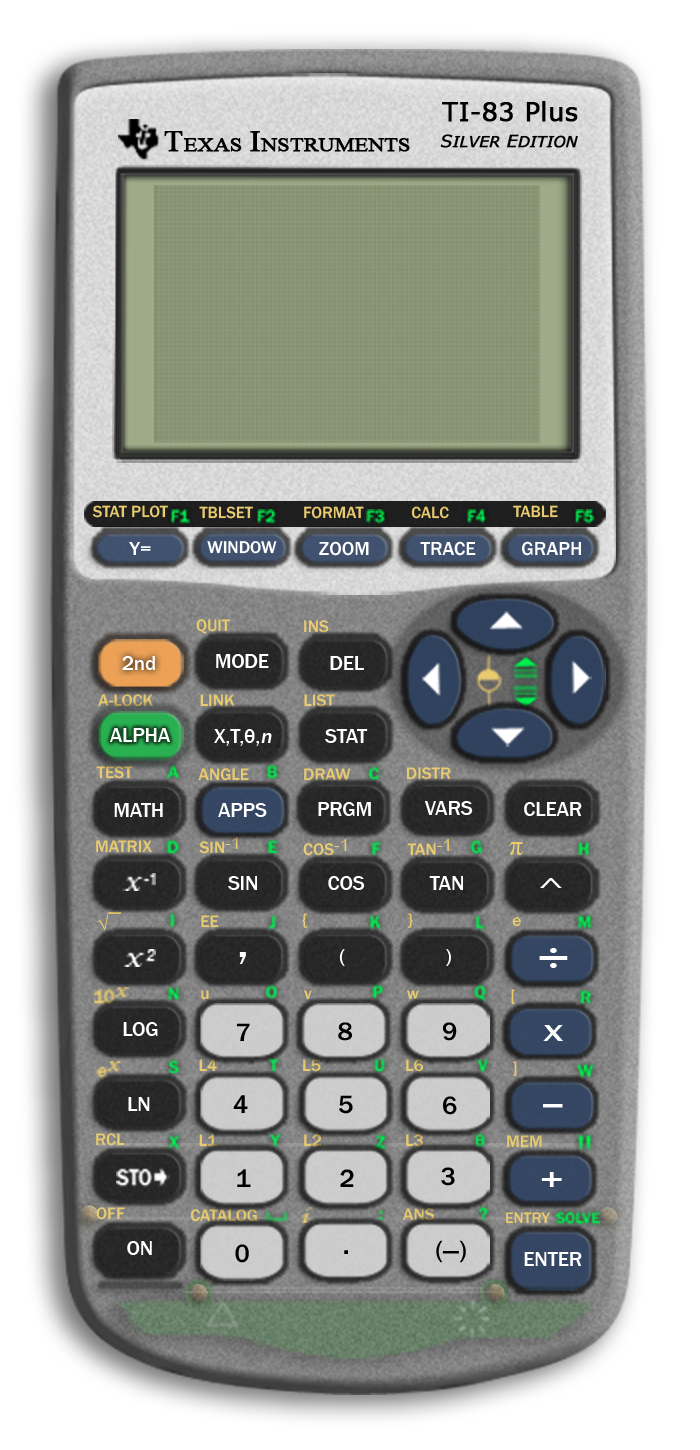
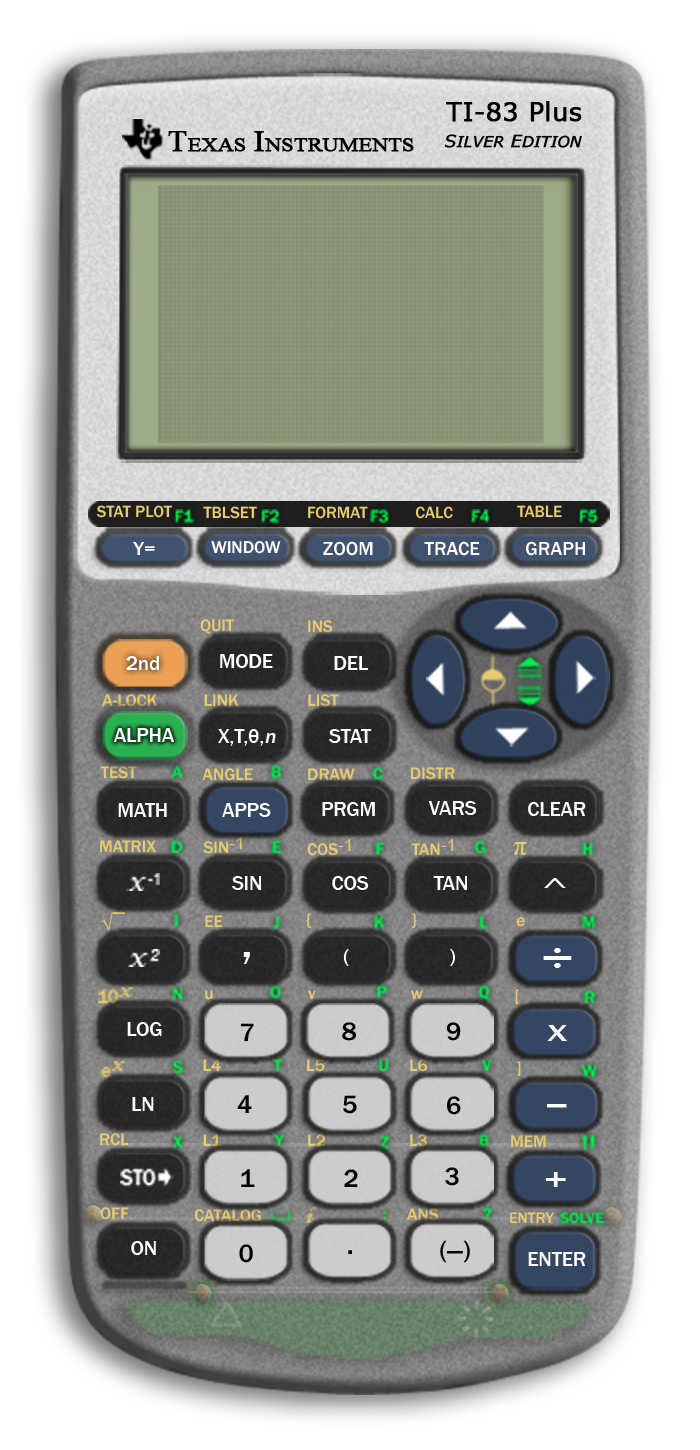
Added a hack to detect loading CSE rom to lower model and vice versa Fix 83PSE skin so it matches up with the keymap Fixed a couple crashes in debugger breakpoint tab Maybe fixed a race condition sending files Make default OS selection in the wizard the latest version Update version to 1.9

diff --git a/debugger/dbbreakpoints.c b/debugger/dbbreakpoints.c
@@ -201,19 +201,31 @@ LRESULT CALLBACK BreakpointsDialogProc(HWND hwnd, UINT Message, WPARAM wParam, L
 						break;
 					}
 
+					memc *memc = lpCalc->cpu.mem_c;
 					if (Button_GetCheck(GetDlgItem(hwnd, IDC_BREAK_NORMAL))) {
-						set_break(lpCalc->cpu.mem_c, waddr);
+						if (check_break(memc, waddr)) {
+							break;
+						}
+
+						set_break(memc, waddr);
 					} else if (Button_GetCheck(GetDlgItem(hwnd, IDC_BREAK_WRITE))) {
+						if (check_mem_write_break(memc, waddr)) {
+							break;
+						}
+
 						set_mem_write_break(lpCalc->cpu.mem_c, waddr);
 					} else if (Button_GetCheck(GetDlgItem(hwnd, IDC_BREAK_READ))) {
+						if (check_mem_read_break(memc, waddr)) {
+							break;
+						}
+
 						set_mem_read_break(lpCalc->cpu.mem_c, waddr);
+					} else {
+						break;
 					}
 
 					LPBREAKPOINT lpBreak = lpCalc->cond_breakpoints[waddr.is_ram][PAGE_SIZE * waddr.page + mc_base(waddr.addr)];
-					int index = ListView_GetItemCount(hwndListView) - 1;
-					if (index == -1) {
-						index = 0;
-					}
+					int index = ListView_GetItemCount(hwndListView);
 
 					LVITEM item;
 					item.mask = LVIF_PARAM;

diff --git a/utilities/linksendvar.c b/utilities/linksendvar.c
@@ -401,6 +401,8 @@ BOOL check_flashpage_empty(u_char(*dest)[PAGE_SIZE], u_int page, u_int num_pages
 #define TI_83P_APP_BITMAP_VALID_OFFSET 0x1FE0
 #define TI_84PCSE_APP_BITMAP_VALID_OFFSET 0x1FC8
 #define CERT_PAGE cpu->mem_c->flash_pages - 2
+#define LAST_OS_PAGE_83P 0x1D
+#define LAST_OS_PAGE_84PCSE 0xFC
 
 /* Fixes the certificate page so that the app is no longer marked as a trial
 * cpu: cpu for the core the application is on
@@ -446,6 +448,19 @@ LINK_ERR forceload_os(CPU_t *cpu, TIFILE_t *tifile) {
 
 	if (tifile->flash == NULL) {
 		return LERR_FILE;
+	}
+
+	int lastPage = 0xFF;
+	while (tifile->flash->data[lastPage] == NULL) {
+		lastPage--;
+	}
+
+	// This is hacky. Takes advantage of the fact that CSE stores the real number of the page, where 84PSE and below store page & 0x1F
+	// TODO: find the OS validation header
+	if (lastPage == LAST_OS_PAGE_83P && cpu->pio.model > TI_84PSE) {
+		return LERR_MODEL;
+	} else if (lastPage == LAST_OS_PAGE_84PCSE && cpu->pio.model < TI_84PCSE) {
+		return LERR_MODEL;
 	}
 
 	int start_page;

diff --git a/gui/guiwizard.c b/gui/guiwizard.c
@@ -410,23 +410,26 @@ INT_PTR CALLBACK SetupOSProc(HWND hwnd, UINT Message, WPARAM wParam, LPARAM lPar
 							switch(model) {
 								case TI_73:
 									ComboBox_AddString(hComboOS, _T("OS 1.91"));
+									ComboBox_SetCurSel(hComboOS, 0);
 									break;
 								case TI_83P:
 								case TI_83PSE:
 									ComboBox_AddString(hComboOS, _T("OS 1.19"));
+									ComboBox_SetCurSel(hComboOS, 0);
 									break;
 								case TI_84P:
 								case TI_84PSE: {
 									ComboBox_AddString(hComboOS, _T("OS 2.43"));
 									ComboBox_AddString(hComboOS, _T("OS 2.55 MP"));
+									ComboBox_SetCurSel(hComboOS, 1);
 									break;
 								case TI_84PCSE:
 									ComboBox_AddString(hComboOS, _T("OS 4.0"));
 									ComboBox_AddString(hComboOS, _T("OS 4.2"));
+									ComboBox_SetCurSel(hComboOS, 1);
 									break;
 								}
 							}
-							ComboBox_SetCurSel(hComboOS, 0);
 							break;
 						}
 						case IDC_BROWSE_OS: {

diff --git a/utilities/sendfileswindows.cpp b/utilities/sendfileswindows.cpp
@@ -189,7 +189,8 @@ BOOL SendFileToCalc(HWND hwndParent, const LPCALC lpCalc, LPCTSTR lpszFileName, 
 		}
 
 		LPSENDINFO lpsi;
-		if (g_SendInfo.find(lpCalc) == g_SendInfo.end() || g_SendInfo[lpCalc] == NULL)
+		const std::map<LPCALC, LPSENDINFO>::iterator iterator = g_SendInfo.find(lpCalc);
+		if (iterator == g_SendInfo.end() || g_SendInfo[lpCalc] == NULL)
 		{
 			lpsi = new SENDINFO;
 			ZeroMemory(lpsi, sizeof(SENDINFO));
@@ -203,7 +204,7 @@ BOOL SendFileToCalc(HWND hwndParent, const LPCALC lpCalc, LPCTSTR lpszFileName, 
 		}
 		else
 		{
-			lpsi = g_SendInfo[lpCalc];
+			lpsi = iterator->second;
 		}
 
 		if (lpsi->hwndDlg == NULL) {

diff --git a/gui/registry.c b/gui/registry.c
@@ -13,7 +13,7 @@ extern keyprog_t defaultkeysti86[256];
 extern keyprog_t defaultkeysti83[256];
 const TCHAR *appName = _T("Wabbitemu");
 const TCHAR *debugName = _T("Debug");
-const TCHAR *verString = _T("1.8.2.26");
+const TCHAR *verString = _T("1.9.3.25");
 
 static HKEY hkeyTarget = NULL;
 

diff --git a/gui/gui.h b/gui/gui.h
@@ -18,7 +18,7 @@ class CWabbitemu;
 #define MAX_SKIN_WIDTH	SKIN_WIDTH*2
 #define MAX_SKIN_HEIGHT	SKIN_HEIGHT*2
 
-#define WABBITVER		_T("1.8")
+#define WABBITVER		_T("1.9")
 
 #define g_szWebPage		_T("http://wabbit.codeplex.com")
 #ifdef _WIN64

diff --git a/interface/calc.h b/interface/calc.h
@@ -82,7 +82,6 @@ typedef struct tagCALC {
 
 	BOOL max_speed;
 	int speed;
-	BYTE breakpoints[0x10000];
 	label_struct labels[10000];
 
 	apphdr_t last_transferred_app;
